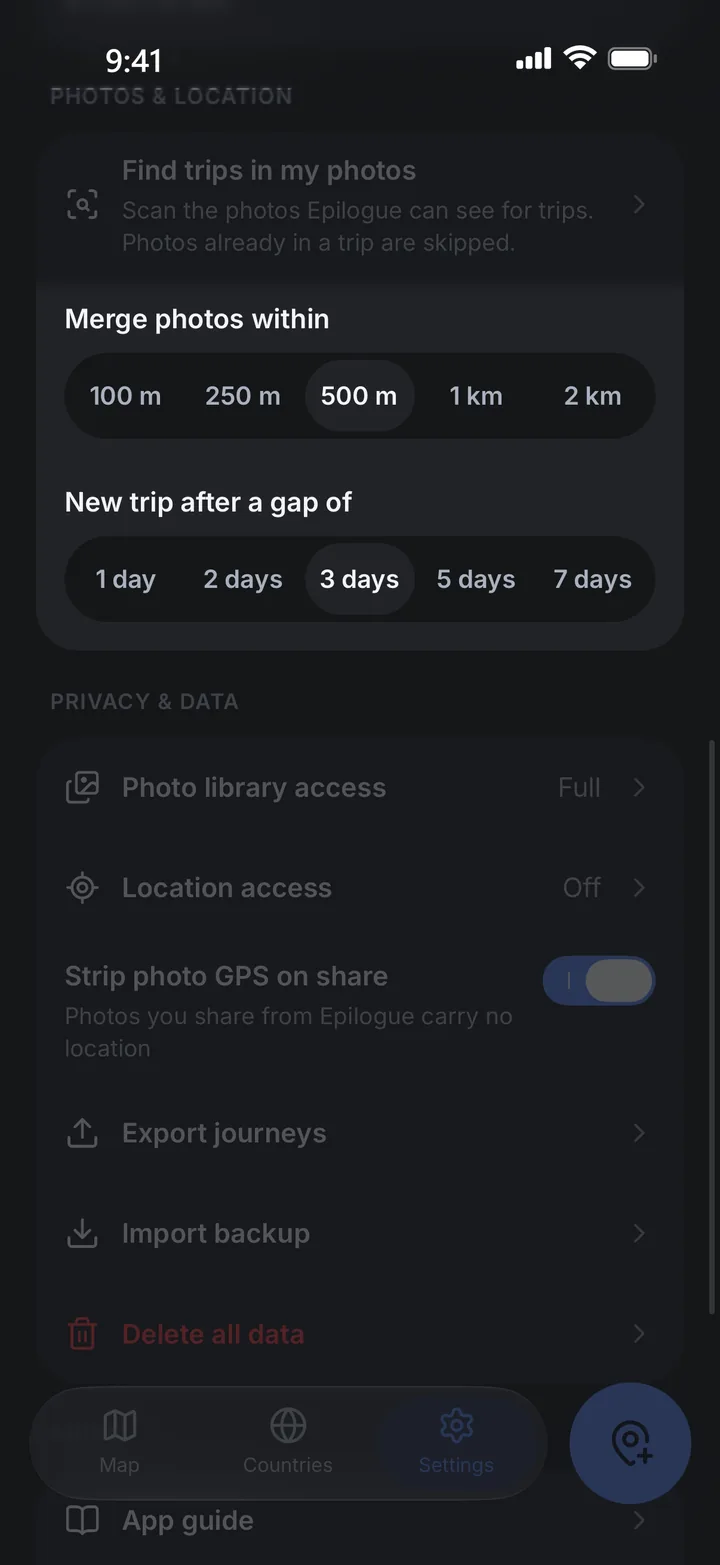
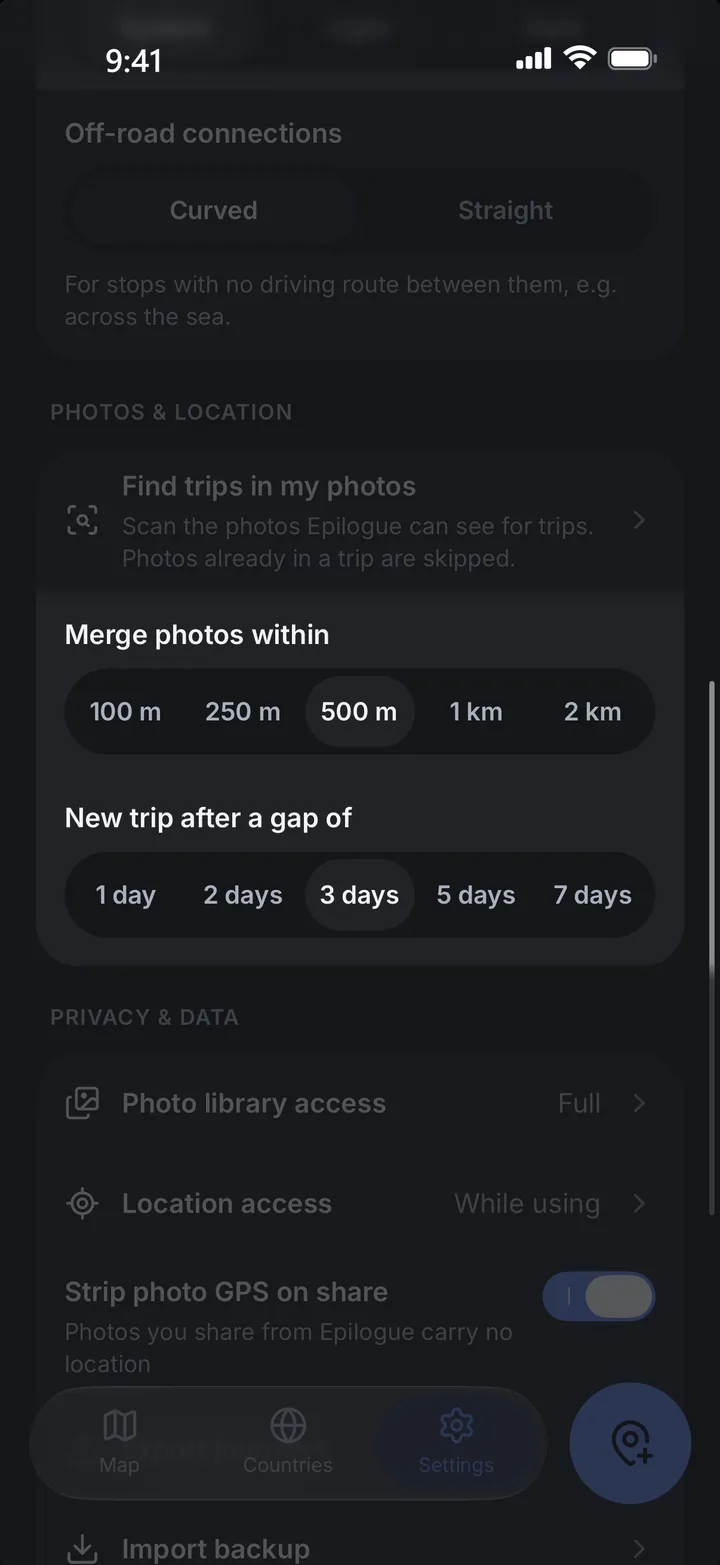
Elements cleanup

diff --git a/index.html b/index.html
@@ -1,5 +1,5 @@
 <!DOCTYPE html>
-<html lang="en">
+<html lang="en" class="intro-active">
 <head>
 <meta charset="utf-8">
 <meta name="viewport" content="width=device-width, initial-scale=1">
@@ -376,9 +376,33 @@
 
   /* ---------- CTA ---------- */
   .cta {
-    text-align: center; padding: 18vh 20px 16vh;
-    background: radial-gradient(60% 60% at 50% 0%, color-mix(in srgb, var(--accent) 18%, transparent), transparent);
+    position: relative; overflow: hidden; isolation: isolate;
+    text-align: center; padding: 16vh 20px 46vh;
     border-top: 1px solid var(--line);
+  }
+  .cta-content { position: relative; z-index: 1; }
+  .cta-map { position: absolute; inset: 0; z-index: 0; pointer-events: none; }
+  .cta-map img, .cta-route { position: absolute; inset: 0; width: 100%; height: 100%; object-fit: cover; }
+  .cta-map::after { /* keep the copy legible and blend the map into the page edges */
+    content: ""; position: absolute; inset: 0;
+    background:
+      radial-gradient(42% 38% at 50% 26%, rgba(21,22,26,.88), transparent 100%),
+      linear-gradient(var(--bg), transparent 14%, transparent 86%, var(--bg));
+  }
+  .route-casing, .route-line { fill: none; stroke-linecap: round; stroke-linejoin: round; }
+  .route-casing { stroke: #0B0C0F; stroke-width: 12; opacity: .85; }
+  .route-line { stroke: #4C82F7; stroke-width: 5.5; }
+  .route-head { fill: #fff; filter: drop-shadow(0 0 8px #4C82F7) drop-shadow(0 0 3px #4C82F7); opacity: 0; }
+  .stop circle {
+    fill: #4C82F7; stroke: #fff; stroke-width: 3;
+    transform-box: fill-box; transform-origin: center; transform: scale(0);
+    transition: transform .45s cubic-bezier(.3, 1.7, .5, 1);
+  }
+  .stop.on circle { transform: scale(1); }
+  @media (max-width: 880px) {
+    /* Shorter, wider map band at the bottom so more of the route fits a phone */
+    .cta-map { top: auto; height: 50%; }
+    .cta-map::after { background: linear-gradient(var(--bg), transparent 25%, transparent 88%, var(--bg)); }
   }
   .cta-icon {
     display: block; margin: 0 auto 28px; border-radius: 22px;
@@ -674,9 +698,27 @@
   </div>
 
   <section class="cta" id="download">
-    <img class="cta-icon" src="assets/icon-192.png" alt="Epilogue app icon" width="96" height="96">
-    <h2>Your next trip is already in your camera roll.</h2>
-    <p class="lede">Download Epilogue and see every place you've been, mapped in minutes.</p>
+    <!-- Background map: land from tools/build_cta_map.py, route drawn on scroll-in -->
+    <div class="cta-map" aria-hidden="true">
+      <img src="assets/cta-japan.svg" alt="">
+      <svg class="cta-route" viewBox="0 0 1600 900" preserveAspectRatio="xMidYMid slice">
+        <path class="route-casing" d="M233.5 526.7L235.1 527.2L236.5 526.8L238.3 526.5L239.7 523.9L241.7 523.0L244.1 523.0L246.5 522.3L249.6 523.4L252.2 522.7L254.4 520.4L257.1 519.5L259.4 517.3L262.1 516.5L265.4 517.4L268.2 516.2L271.3 515.6L274.1 513.8L276.1 510.3L279.3 509.0L282.4 507.3L285.8 506.0L289.9 506.4L292.8 504.3L295.7 502.4L298.8 501.1L301.6 498.6L305.0 499.1L308.1 499.9L311.0 500.7L313.5 502.7L316.8 502.8L320.4 503.1L323.1 505.3L326.4 506.9L328.5 510.1L330.5 513.5L334.0 514.8L337.0 516.7L340.7 517.3L344.3 517.3L347.0 519.5L350.3 520.4L353.9 521.0L357.9 521.4L361.2 518.6L364.8 516.5L368.6 514.8L372.2 512.4L377.1 512.4L381.4 511.2L385.2 509.0L389.3 507.7L392.7 504.6L396.7 503.1L400.9 503.9L404.9 503.9L408.6 506.0L412.5 507.2L417.1 506.5L421.4 507.7L426.0 508.4L430.3 510.1L433.6 514.1L437.7 516.2L441.5 518.7L445.4 521.0L450.3 521.7L453.6 524.5L456.5 527.7L459.2 530.6L460.3 534.7L462.9 537.1L465.9 539.1L467.9 541.8L470.9 544.0L471.8 547.4L471.7 551.3L473.1 554.7L473.4 558.6L475.5 562.4L478.5 566.3L479.1 571.2L480.5 576.3L480.8 582.2L480.3 588.9L482.3 596.0L483.7 603.9L485.2 612.4L487.5 621.2L486.8 630.6L486.7 640.1L487.3 649.4L487.0 658.7L489.7 667.4L491.9 675.7L492.9 683.5L495.0 690.3L495.1 696.9L495.8 702.6L498.4 707.1L500.0 711.4L503.0 714.6L505.6 717.5L506.1 721.4L508.0 724.2L509.6 727.5L512.0 730.4L516.3 731.1L520.0 732.9L524.1 734.6L528.9 736.3L533.3 740.5L539.5 742.8L546.7 744.4L554.6 746.2L563.5 745.6L572.6 746.9L581.9 749.3L591.5 750.5L601.1 753.3L610.8 754.2L620.4 753.5L629.4 754.5L638.1 754.4L646.0 755.9L652.8 758.9L659.2 759.8L665.0 761.2L670.6 761.6L676.2 760.4L680.9 761.9L685.5 763.0L689.8 764.4L693.7 767.0L698.0 766.9L702.3 766.9L706.4 767.5L710.9 766.9L714.9 769.1L719.0 771.4L723.5 772.3L727.7 774.3L732.5 774.1L737.2 773.9L741.3 775.8L745.7 776.8L749.6 779.3L753.4 781.9L758.0 781.9L762.3 782.9L766.7 783.0L771.2 782.9L775.0 785.4L779.2 786.3L783.3 787.8L787.6 789.1L792.1 787.5L796.5 787.1L800.9 787.5L805.2 787.2L809.5 789.4L813.7 790.1L818.0 789.4L822.1 789.6L826.2 788.1L830.1 788.0L833.7 790.0L837.3 790.6L840.3 792.6L843.4 793.8L847.2 793.2L850.2 794.6L853.4 795.6L856.1 797.3L857.7 800.7L860.5 802.0L863.1 803.2L865.9 804.0L869.0 802.6L871.3 803.4L873.8 804.2L876.5 803.8L879.9 804.4L882.2 802.3L883.9 799.4L886.2 797.4L887.6 794.2L890.6 792.3L894.2 790.7L896.3 787.5L899.3 784.7L901.1 780.8L902.5 776.3L906.1 773.5L909.4 770.1L913.3 767.3L918.3 765.2L921.4 760.7L925.2 756.5L929.2 752.3L932.9 747.4L938.7 744.6L944.0 741.1L948.9 736.9L954.3 733.2L958.0 727.5L962.2 722.4L967.5 718.4L972.0 713.7L978.0 710.5L983.2 706.5L987.0 700.8L991.5 695.8L995.1 689.7L999.2 684.1L1005.2 680.1L1010.0 675.0L1015.2 670.4L1020.2 665.5L1023.4 659.0L1028.1 654.0L1032.9 649.3L1037.8 644.8L1044.3 642.3L1049.4 638.5L1054.1 634.4L1059.3 631.0L1063.5 626.1L1068.9 623.2L1074.9 621.4L1080.3 618.6L1086.5 617.2L1091.8 613.9L1096.6 609.5L1102.3 606.8L1107.6 603.1L1113.7 600.6L1120.5 599.2L1126.3 595.4L1132.7 592.2L1138.8 588.1L1144.5 582.9L1151.6 580.1L1158.6 577.0L1165.6 573.9L1173.1 571.8L1179.1 567.1L1185.1 562.6L1191.3 558.8L1196.7 554.2L1203.3 552.0L1209.4 549.5L1214.4 545.6L1219.7 542.4L1223.4 537.4L1227.0 532.6L1231.9 529.5L1236.0 525.7L1241.0 522.9L1245.7 520.0L1248.5 515.3L1252.1 511.6L1255.2 507.6L1258.4 503.8L1263.3 502.4L1266.9 499.6L1271.0 498.0L1274.7 496.3L1276.9 492.5L1279.8 490.4L1283.2 489.2L1286.1 487.6L1290.0 488.1L1293.1 487.1L1295.8 484.8L1299.0 483.5L1301.7 480.7L1305.2 479.3L1309.6 479.5L1313.5 478.0L1318.3 477.3L1323.1 475.3L1327.6 471.4L1333.1 469.6L1338.7 467.3L1344.5 465.6L1351.0 465.7L1356.4 463.4L1361.7 461.2L1366.6 459.2L1370.7 455.7L1375.1 455.1L1378.9 454.8L1381.7 453.8"/>
+        <path class="route-line" d="M233.5 526.7L235.1 527.2L236.5 526.8L238.3 526.5L239.7 523.9L241.7 523.0L244.1 523.0L246.5 522.3L249.6 523.4L252.2 522.7L254.4 520.4L257.1 519.5L259.4 517.3L262.1 516.5L265.4 517.4L268.2 516.2L271.3 515.6L274.1 513.8L276.1 510.3L279.3 509.0L282.4 507.3L285.8 506.0L289.9 506.4L292.8 504.3L295.7 502.4L298.8 501.1L301.6 498.6L305.0 499.1L308.1 499.9L311.0 500.7L313.5 502.7L316.8 502.8L320.4 503.1L323.1 505.3L326.4 506.9L328.5 510.1L330.5 513.5L334.0 514.8L337.0 516.7L340.7 517.3L344.3 517.3L347.0 519.5L350.3 520.4L353.9 521.0L357.9 521.4L361.2 518.6L364.8 516.5L368.6 514.8L372.2 512.4L377.1 512.4L381.4 511.2L385.2 509.0L389.3 507.7L392.7 504.6L396.7 503.1L400.9 503.9L404.9 503.9L408.6 506.0L412.5 507.2L417.1 506.5L421.4 507.7L426.0 508.4L430.3 510.1L433.6 514.1L437.7 516.2L441.5 518.7L445.4 521.0L450.3 521.7L453.6 524.5L456.5 527.7L459.2 530.6L460.3 534.7L462.9 537.1L465.9 539.1L467.9 541.8L470.9 544.0L471.8 547.4L471.7 551.3L473.1 554.7L473.4 558.6L475.5 562.4L478.5 566.3L479.1 571.2L480.5 576.3L480.8 582.2L480.3 588.9L482.3 596.0L483.7 603.9L485.2 612.4L487.5 621.2L486.8 630.6L486.7 640.1L487.3 649.4L487.0 658.7L489.7 667.4L491.9 675.7L492.9 683.5L495.0 690.3L495.1 696.9L495.8 702.6L498.4 707.1L500.0 711.4L503.0 714.6L505.6 717.5L506.1 721.4L508.0 724.2L509.6 727.5L512.0 730.4L516.3 731.1L520.0 732.9L524.1 734.6L528.9 736.3L533.3 740.5L539.5 742.8L546.7 744.4L554.6 746.2L563.5 745.6L572.6 746.9L581.9 749.3L591.5 750.5L601.1 753.3L610.8 754.2L620.4 753.5L629.4 754.5L638.1 754.4L646.0 755.9L652.8 758.9L659.2 759.8L665.0 761.2L670.6 761.6L676.2 760.4L680.9 761.9L685.5 763.0L689.8 764.4L693.7 767.0L698.0 766.9L702.3 766.9L706.4 767.5L710.9 766.9L714.9 769.1L719.0 771.4L723.5 772.3L727.7 774.3L732.5 774.1L737.2 773.9L741.3 775.8L745.7 776.8L749.6 779.3L753.4 781.9L758.0 781.9L762.3 782.9L766.7 783.0L771.2 782.9L775.0 785.4L779.2 786.3L783.3 787.8L787.6 789.1L792.1 787.5L796.5 787.1L800.9 787.5L805.2 787.2L809.5 789.4L813.7 790.1L818.0 789.4L822.1 789.6L826.2 788.1L830.1 788.0L833.7 790.0L837.3 790.6L840.3 792.6L843.4 793.8L847.2 793.2L850.2 794.6L853.4 795.6L856.1 797.3L857.7 800.7L860.5 802.0L863.1 803.2L865.9 804.0L869.0 802.6L871.3 803.4L873.8 804.2L876.5 803.8L879.9 804.4L882.2 802.3L883.9 799.4L886.2 797.4L887.6 794.2L890.6 792.3L894.2 790.7L896.3 787.5L899.3 784.7L901.1 780.8L902.5 776.3L906.1 773.5L909.4 770.1L913.3 767.3L918.3 765.2L921.4 760.7L925.2 756.5L929.2 752.3L932.9 747.4L938.7 744.6L944.0 741.1L948.9 736.9L954.3 733.2L958.0 727.5L962.2 722.4L967.5 718.4L972.0 713.7L978.0 710.5L983.2 706.5L987.0 700.8L991.5 695.8L995.1 689.7L999.2 684.1L1005.2 680.1L1010.0 675.0L1015.2 670.4L1020.2 665.5L1023.4 659.0L1028.1 654.0L1032.9 649.3L1037.8 644.8L1044.3 642.3L1049.4 638.5L1054.1 634.4L1059.3 631.0L1063.5 626.1L1068.9 623.2L1074.9 621.4L1080.3 618.6L1086.5 617.2L1091.8 613.9L1096.6 609.5L1102.3 606.8L1107.6 603.1L1113.7 600.6L1120.5 599.2L1126.3 595.4L1132.7 592.2L1138.8 588.1L1144.5 582.9L1151.6 580.1L1158.6 577.0L1165.6 573.9L1173.1 571.8L1179.1 567.1L1185.1 562.6L1191.3 558.8L1196.7 554.2L1203.3 552.0L1209.4 549.5L1214.4 545.6L1219.7 542.4L1223.4 537.4L1227.0 532.6L1231.9 529.5L1236.0 525.7L1241.0 522.9L1245.7 520.0L1248.5 515.3L1252.1 511.6L1255.2 507.6L1258.4 503.8L1263.3 502.4L1266.9 499.6L1271.0 498.0L1274.7 496.3L1276.9 492.5L1279.8 490.4L1283.2 489.2L1286.1 487.6L1290.0 488.1L1293.1 487.1L1295.8 484.8L1299.0 483.5L1301.7 480.7L1305.2 479.3L1309.6 479.5L1313.5 478.0L1318.3 477.3L1323.1 475.3L1327.6 471.4L1333.1 469.6L1338.7 467.3L1344.5 465.6L1351.0 465.7L1356.4 463.4L1361.7 461.2L1366.6 459.2L1370.7 455.7L1375.1 455.1L1378.9 454.8L1381.7 453.8"/>
+        <g class="stop" data-at="0.0000"><!-- Osaka --><circle cx="233.5" cy="526.7" r="8"/></g>
+        <g class="stop" data-at="0.0573"><!-- Kyoto --><circle cx="308.1" cy="499.9" r="8"/></g>
+        <g class="stop" data-at="0.2123"><!-- Nagoya --><circle cx="480.8" cy="582.2" r="8"/></g>
+        <g class="stop" data-at="0.5032"><!-- Hakone --><circle cx="779.2" cy="786.3" r="8"/></g>
+        <g class="stop" data-at="0.6103"><!-- Tokyo --><circle cx="913.3" cy="767.3" r="8"/></g>
+        <g class="stop" data-at="0.9145"><!-- Fukushima --><circle cx="1266.9" cy="499.6" r="8"/></g>
+        <g class="stop" data-at="1.0000"><!-- Sendai --><circle cx="1381.7" cy="453.8" r="8"/></g>
+        <circle class="route-head" r="9"/>
+      </svg>
+    </div>
+    <div class="cta-content">
+      <img class="cta-icon" src="assets/icon-192.png" alt="Epilogue app icon" width="96" height="96">
+      <h2>Your next trip is already in your camera roll.</h2>
+      <p class="lede">Download Epilogue and see every place you've been, mapped in minutes.</p>
+    </div>
   </section>
 
   <div class="info">
@@ -971,6 +1013,42 @@
   addEventListener('resize', () => { base = null; lastT = -1; onScroll(); });
   intro();
   update();
+
+  /* ---------- Download section: draw the Osaka → Sendai route when it scrolls in ---------- */
+  const cta = document.getElementById('download');
+  const lines = [...cta.querySelectorAll('.route-line, .route-casing')];
+  const head = cta.querySelector('.route-head');
+  const stops = [...cta.querySelectorAll('.stop')];
+  const L = lines[0].getTotalLength();
+  const DURATION = 4200;
+  let raf = null;
+
+  function drawTo(e) {
+    lines.forEach(l => { l.style.strokeDasharray = L; l.style.strokeDashoffset = L * (1 - e); });
+    const pt = lines[0].getPointAtLength(L * e);
+    head.setAttribute('cx', pt.x);
+    head.setAttribute('cy', pt.y);
+    head.style.opacity = e > 0 && e < 1 ? 1 : 0;
+    stops.forEach(s => s.classList.toggle('on', e >= +s.dataset.at - 0.002));
+  }
+  function play() {
+    if (matchMedia('(prefers-reduced-motion: reduce)').matches) return drawTo(1);
+    cancelAnimationFrame(raf);
+    let start = null;
+    const step = ts => {
+      start ??= ts;
+      const p = Math.min(1, (ts - start) / DURATION);
+      drawTo(ease(p));
+      if (p < 1) raf = requestAnimationFrame(step);
+    };
+    raf = requestAnimationFrame(step);
+  }
+  drawTo(0);
+  // Replays each time the section comes back into view.
+  new IntersectionObserver(([entry]) => {
+    if (entry.isIntersecting) play();
+    else { cancelAnimationFrame(raf); drawTo(0); }
+  }, { threshold: 0.35 }).observe(cta);
 })();
 </script>
 </body>

diff --git a/tools/build_cta_map.py b/tools/build_cta_map.py
@@ -1,0 +1,135 @@
+"""Build the Japan map + Osaka→Sendai route used behind the download section.
+
+Data: Natural Earth 10m countries via world-atlas (public domain).
+  curl -L -o countries-10m.json https://cdn.jsdelivr.net/npm/world-atlas@2.0.2/countries-10m.json
+Usage:
+  python tools/build_cta_map.py countries-10m.json
+Writes assets/cta-japan.svg (land) and prints the route SVG fragment for index.html.
+"""
+import json
+import math
+import sys
+
+W, H = 1600, 900
+LON0, LAT0 = 138.2, 36.4          # projection centre
+K = 205                           # px per degree of latitude
+THETA = math.radians(36)          # clockwise rotation so the route runs sideways
+OFFSET = (800, 505)               # where the projection centre lands in the viewBox
+COS0 = math.cos(math.radians(LAT0))
+
+
+def proj(lon, lat):
+    x = (lon - LON0) * COS0 * K
+    y = -(lat - LAT0) * K
+    xr = x * math.cos(THETA) - y * math.sin(THETA)
+    yr = x * math.sin(THETA) + y * math.cos(THETA)
+    return xr + OFFSET[0], yr + OFFSET[1]
+
+
+# ---------- Land ----------
+topo = json.load(open(sys.argv[1], encoding="utf-8"))
+sx, sy = topo["transform"]["scale"]
+tx, ty = topo["transform"]["translate"]
+arcs = []
+for arc in topo["arcs"]:
+    x = y = 0
+    pts = []
+    for dx, dy in arc:
+        x += dx
+        y += dy
+        pts.append((x * sx + tx, y * sy + ty))
+    arcs.append(pts)
+
+geom = next(g for g in topo["objects"]["countries"]["geometries"] if g["properties"].get("name") == "Japan")
+polys = geom["arcs"] if geom["type"] == "MultiPolygon" else [geom["arcs"]]
+
+MARGIN = 120
+paths = []
+for poly in polys:
+    for ring in poly:
+        pts = []
+        for idx in ring:
+            a = arcs[idx] if idx >= 0 else arcs[~idx][::-1]
+            pts.extend(a if not pts else a[1:])
+        xy = [proj(*p) for p in pts]
+        xs, ys = [p[0] for p in xy], [p[1] for p in xy]
+        if max(xs) < -MARGIN or min(xs) > W + MARGIN or max(ys) < -MARGIN or min(ys) > H + MARGIN:
+            continue
+        simp = [xy[0]]
+        for p in xy[1:]:
+            if math.dist(p, simp[-1]) >= 1.6:
+                simp.append(p)
+        if len(simp) < 4:
+            continue
+        paths.append("M" + "L".join(f"{x:.1f} {y:.1f}" for x, y in simp) + "Z")
+
+land = "".join(paths)
+svg = (
+    f'<svg xmlns="http://www.w3.org/2000/svg" viewBox="0 0 {W} {H}" preserveAspectRatio="xMidYMid slice">'
+    f'<path d="{land}" fill="#22242A" stroke="#33363E" stroke-width="1.4" stroke-linejoin="round"/>'
+    "</svg>"
+)
+open("assets/cta-japan.svg", "w", encoding="utf-8").write(svg)
+
+# ---------- Route ----------
+# (lon, lat, label or None). Labelled points are stops; the rest shape the road corridor.
+ROUTE = [
+    (135.50, 34.69, "Osaka"), (135.62, 34.82, None), (135.77, 35.01, "Kyoto"),
+    (136.05, 35.05, None), (136.26, 35.27, None), (136.62, 35.32, None), (136.91, 35.18, "Nagoya"),
+    (137.39, 34.77, None), (137.73, 34.71, None), (138.38, 34.98, None), (138.75, 35.12, None),
+    (139.10, 35.23, "Hakone"), (139.40, 35.38, None), (139.64, 35.44, None), (139.69, 35.69, "Tokyo"),
+    (139.80, 36.10, None), (139.88, 36.56, None), (140.10, 36.95, None), (140.36, 37.40, None),
+    (140.47, 37.76, "Fukushima"), (140.62, 37.98, None), (140.87, 38.27, "Sendai"),
+]
+P = [proj(lon, lat) for lon, lat, _ in ROUTE]
+
+
+def catmull(p0, p1, p2, p3, t):
+    t2, t3 = t * t, t * t * t
+    return tuple(
+        0.5 * (2 * p1[i] + (-p0[i] + p2[i]) * t + (2 * p0[i] - 5 * p1[i] + 4 * p2[i] - p3[i]) * t2
+               + (-p0[i] + 3 * p1[i] - 3 * p2[i] + p3[i]) * t3)
+        for i in range(2)
+    )
+
+
+pts, stop_idx = [], {}
+STEPS = 14
+for i in range(len(P) - 1):
+    p0, p1, p2, p3 = P[max(i - 1, 0)], P[i], P[i + 1], P[min(i + 2, len(P) - 1)]
+    if ROUTE[i][2]:
+        stop_idx[i] = len(pts)
+    for s in range(STEPS):
+        pts.append(catmull(p0, p1, p2, p3, s / STEPS))
+stop_idx[len(P) - 1] = len(pts)
+pts.append(P[-1])
+
+# Small road-like wiggle, perpendicular to the direction of travel; zero at stops.
+out = []
+for j, (x, y) in enumerate(pts):
+    if 0 < j < len(pts) - 1 and j not in stop_idx.values():
+        ax, ay = pts[j - 1]
+        bx, by = pts[j + 1]
+        dx, dy = bx - ax, by - ay
+        n = math.hypot(dx, dy) or 1
+        w = 1.3 * math.sin(j * 0.9) + 0.6 * math.sin(j * 2.3 + 1)
+        x, y = x - dy / n * w, y + dx / n * w
+    out.append((x, y))
+
+cum = [0.0]
+for a, b in zip(out, out[1:]):
+    cum.append(cum[-1] + math.dist(a, b))
+total = cum[-1]
+d = "M" + "L".join(f"{x:.1f} {y:.1f}" for x, y in out)
+
+print(f'<path class="route-casing" d="{d}"/>')
+print(f'<path class="route-line" d="{d}"/>')
+for i, (lon, lat, label) in enumerate(ROUTE):
+    if not label:
+        continue
+    x, y = out[stop_idx[i]]
+    at = cum[stop_idx[i]] / total
+    # Stops are dots only; the label is kept as a comment for reference.
+    print(f'<g class="stop" data-at="{at:.4f}"><!-- {label} --><circle cx="{x:.1f}" cy="{y:.1f}" r="8"/></g>')
+
+print(f"<!-- route length {total:.0f}px, land {len(svg)//1024} KB -->", file=sys.stderr)

diff --git a/tools/process_screens.py b/tools/process_screens.py
@@ -17,13 +17,13 @@ FONT = ImageFont.truetype("C:/Windows/Fonts/seguisb.ttf", 54 * 4)
 SCREENS = {
     1: "hero", 23: "colour", 4: "photo-access", 6: "find-trips", 7: "scanning",
     8: "trips-found", 10: "globe", 11: "japan", 12: "japan-route", 13: "stop",
-    14: "countries", 17: "trip-settings", 18: "privacy-settings",
+    14: "countries", 25: "trip-settings", 18: "privacy-settings",
     19: "style-outdoors", 20: "style-dark", 21: "style-satellite", 22: "style-light",
 }
 LIGHT = {22}
 # Rows (original px) to keep bright; everything else below the status bar is dimmed.
 KEEP = {
-    17: (478, 1100),   # Merge photos within + New trip after a gap of
+    25: (995, 1625),   # Merge photos within + New trip after a gap of
     18: (528, 1712),   # Privacy & Data section
 }
 
